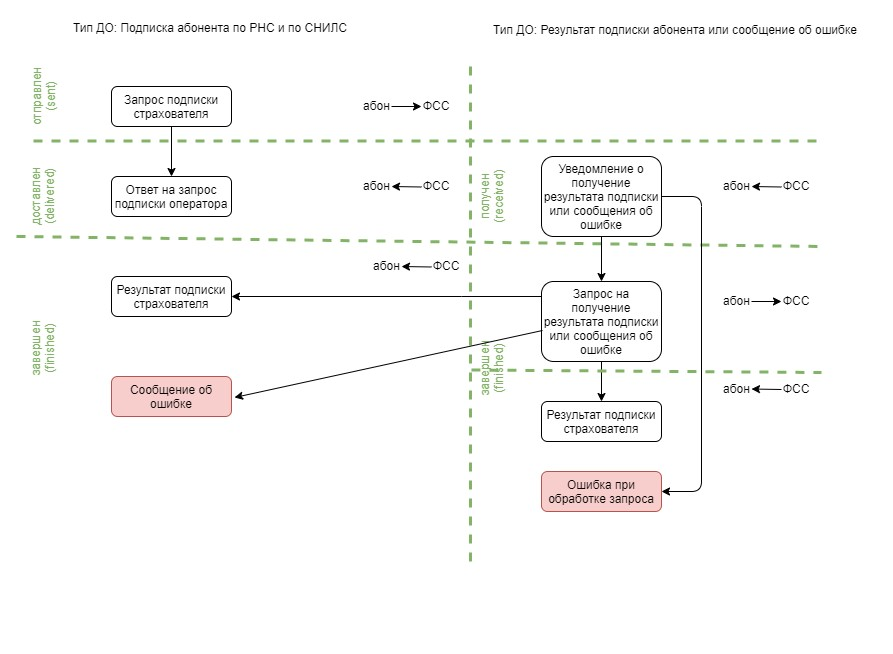
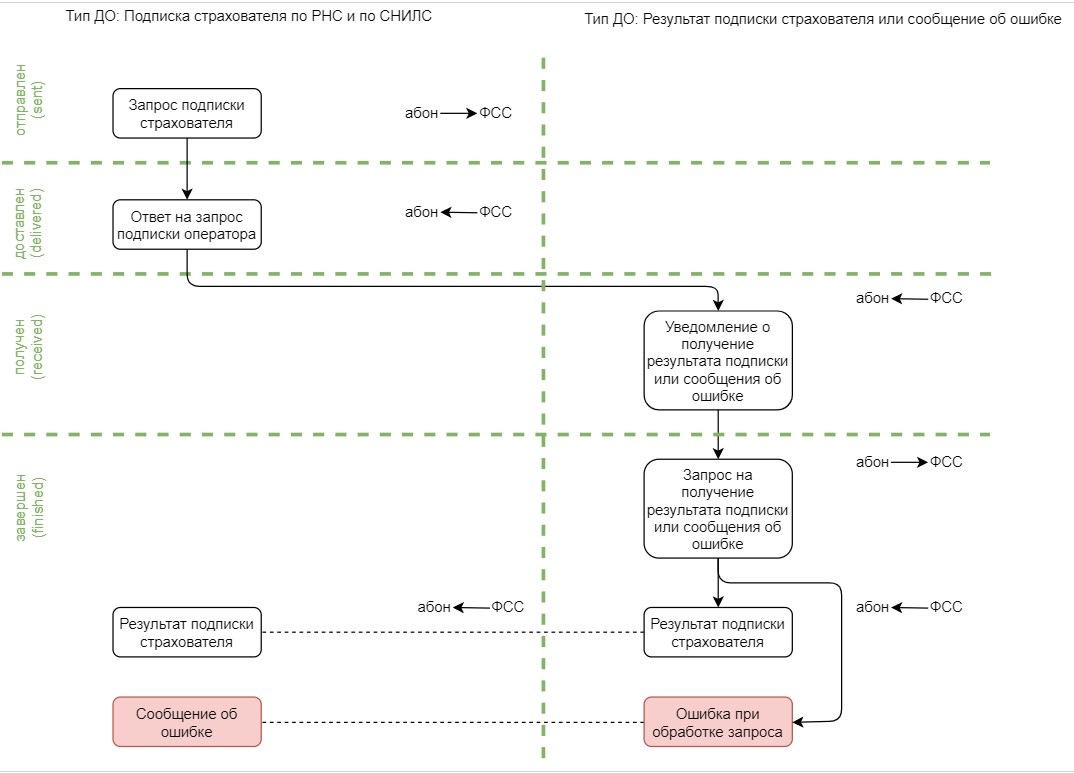
edit image with statuses of subscription

diff --git a/docs/knowledge base/sedo-subscription.rst b/docs/knowledge base/sedo-subscription.rst
@@ -15,7 +15,7 @@
 * Подписка страхователя по РНС: urn:docflow:fss-sedo-abonent-subscription.
 * Подписка страхователя по сотруднику: urn:docflow:fss-sedo-abonent-subscription.
 
-Данные подписки также являются отдельными документооборотами. 
+Данные подписки также являются отдельными документооборотами. Процесс смены статусов документооборотов см. в разделе :ref:`спецификация<rst-markup_subscription>`.
 
 .. warning:: Для получения извещений по ПВСО достаточно только подписки оператора на организацию по РНС. 
 
@@ -75,7 +75,7 @@
 Если в процессе документооборота с ФСС необходимо сформировать запрос на получение документа, то нужно:
 
 #. Создать запрос на получение документов от ФСС. Метод :ref:`POST GenerateDocumentsRequest<rst-murkup-sedo>`. В ответе метод возвращает шаблон запроса и данные для подписи.
-#. Подписать данные для подписи, которые вернутся в параметре DataToSign в формате byte[].
-#. Добавить необработанную подпись к запросу. Метод :ref:`PUT SaveDocumentsRequestSignature<rst-murkup-sedo>`.
+#. Подписать данные для подписи, которые вернутся в параметре data-to-sign в формате byte[].
+#. Добавить «сырую» (raw) подпись к запросу. Метод :ref:`PUT SaveDocumentsRequestSignature<rst-murkup-sedo>`.
 #. Отправить запрос на получение документов в ФСС. Метод :ref:`POST SendDocumentsRequest<rst-murkup-sedo>`. При отправке запроса подпись будет встроена в шаблон.
 #. После этого ФСС пришлет результат подписки или ошибку. Результаты подписки (документы) появятся и в исходном документообороте с отправленной подпиской.

diff --git a/docs/specification/статусы ДО.rst b/docs/specification/статусы ДО.rst
@@ -376,6 +376,8 @@
    "Success", "успех", "стадия завершилась успешно"
    "Error", "ошибка", "стадия завершился неудачей"
   
+.. _rst-markup_subscription:
+
 Подписка оператора на документооборот с ФСС по абоненту
 +++++++++++++++++++++++++++++++++++++++++++++++++++++++
 
@@ -404,7 +406,7 @@
    "urn:docflow-common-status:received","Получен","Страхователь получил уведомление о результате подписки или сообщение об ошибке"
    "urn:docflow-common-status:finished","Завершен","Получен результат подписки или сообщение об ошибке"
 
-Процесс изменения статуса:
+Процесс изменения статуса подписок страхователя и связанных с ними результата подписки страхователя либо сообщения об ошибке:
 
 .. image:: /_static/status-fss-abonent-subscription.jpg
 
